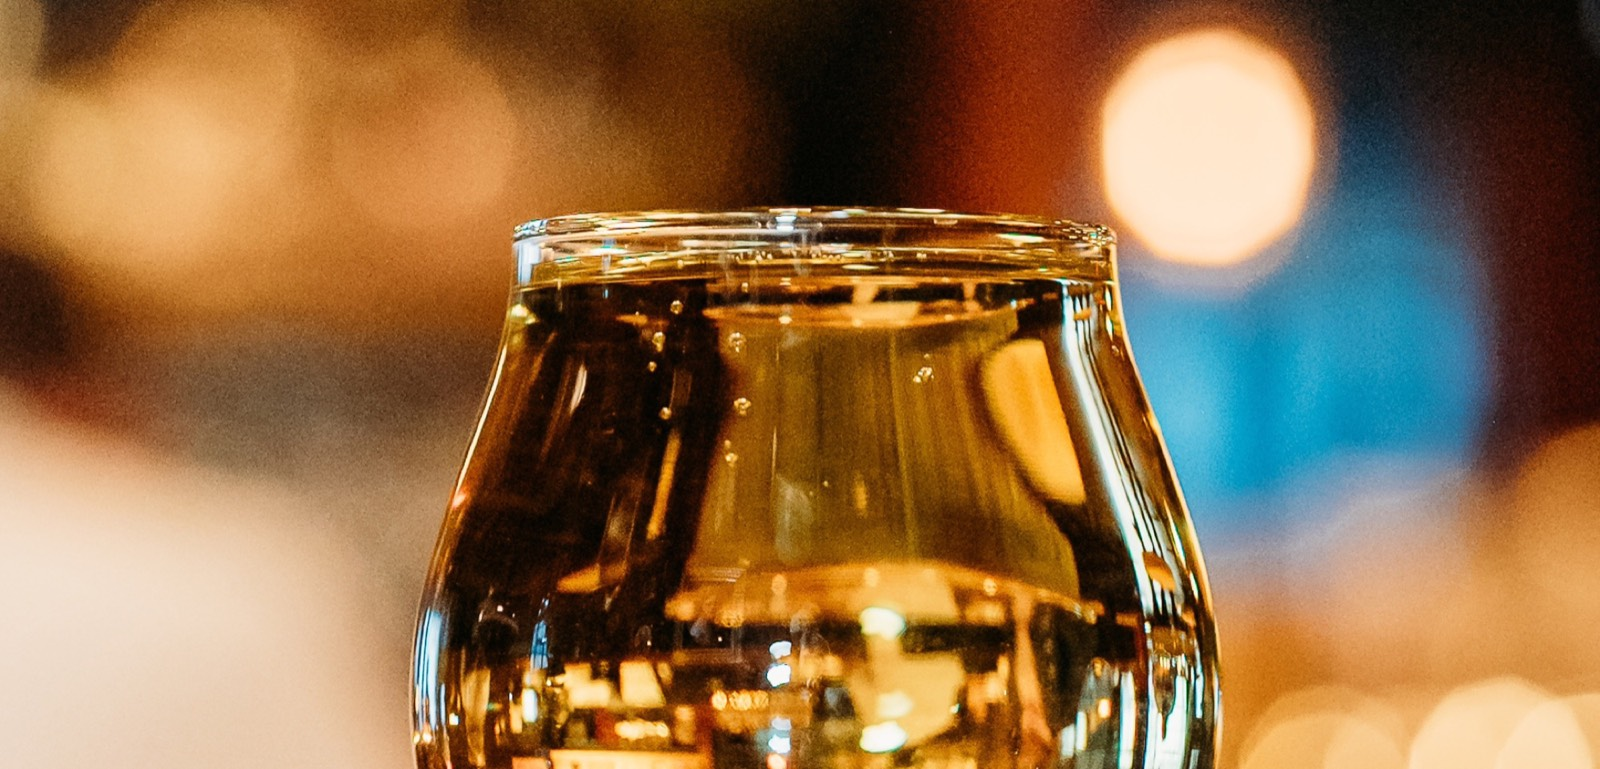
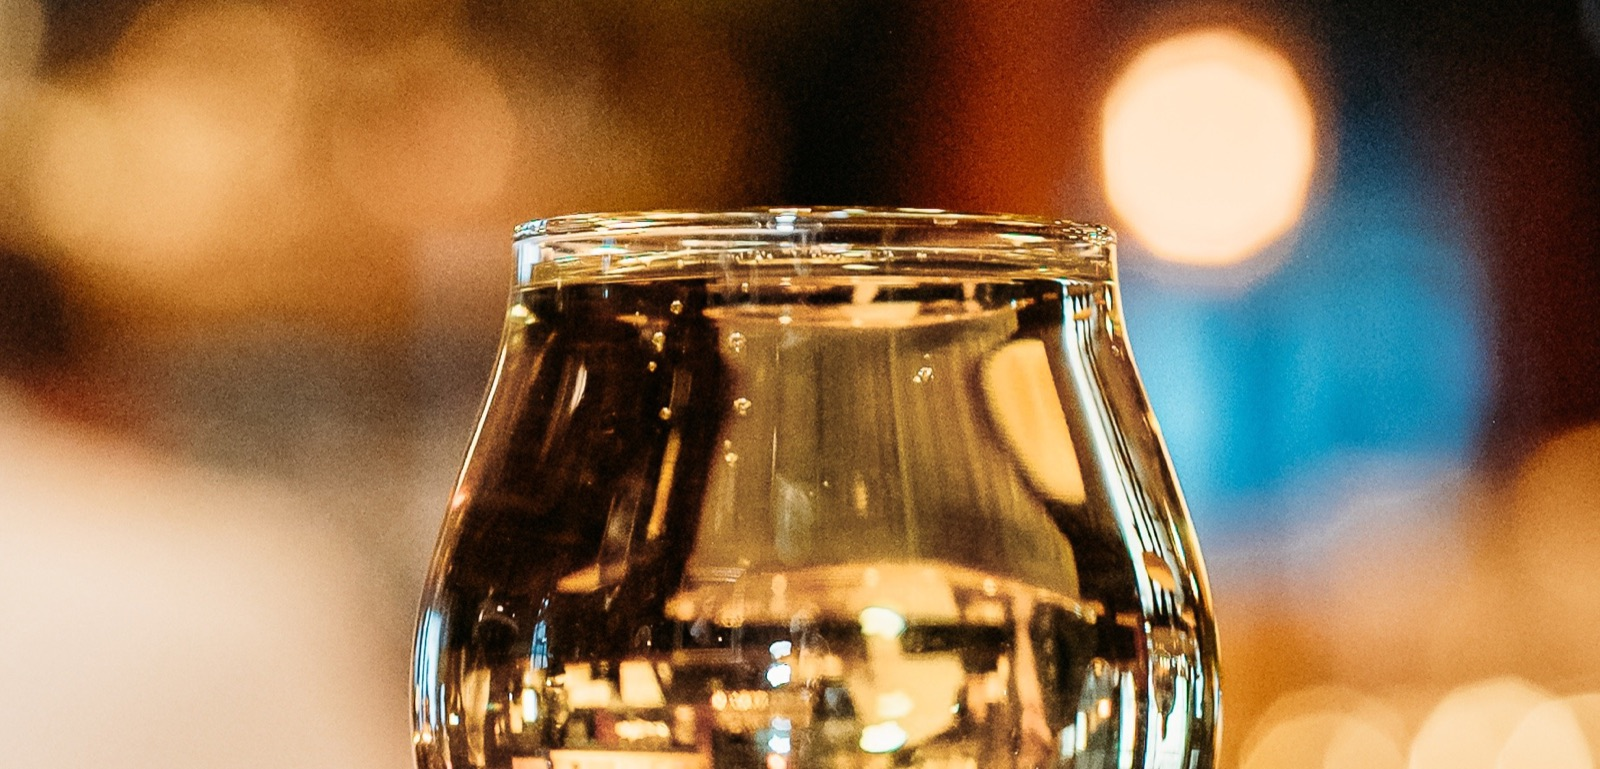
Remove Patsy's Volcanos; color-grade cider photos per cider

Changed region(s): [[0.25, 0.2809, 0.75, 1.0], [0.375, 0.4057, 0.4062, 0.4369]]

diff --git a/cider.html b/cider.html
@@ -72,12 +72,6 @@ a { color:#DC9C48; text-decoration:none; }
     </div>
     
     <div style="width:23.5%; background:#242220; border:1px solid rgba(244,238,223,0.14); padding:22px; border-radius:3px;">
-      <div class="imgbox" style="height:70px; margin-bottom:14px;"><img src="images/cider-patsys-volcanos.jpg" alt=""></div>
-      <div style="font-family:'Cormorant Garamond', Georgia, serif; font-weight:600; font-size:19px; color:#DC9C48; margin-bottom:8px;">Patsy's Volcanos</div>
-      <div style="font-size:11.5px; color:#BFB393; line-height:1.6;">On the precipice of eruption: fiery cinnamon meets the perfect hot &amp; sweet balance.</div>
-    </div>
-    
-    <div style="width:23.5%; background:#242220; border:1px solid rgba(244,238,223,0.14); padding:22px; border-radius:3px;">
       <div class="imgbox" style="height:70px; margin-bottom:14px;"><img src="images/cider-spiced-mike.jpg" alt=""></div>
       <div style="font-family:'Cormorant Garamond', Georgia, serif; font-weight:600; font-size:19px; color:#DC9C48; margin-bottom:8px;">Spiced Mike</div>
       <div style="font-size:11.5px; color:#BFB393; line-height:1.6;">Cinnamon, clove, cardamom, allspice. All the warm apple pie spices, rolled into one taste.</div>

diff --git a/home.html b/home.html
@@ -284,9 +284,9 @@ a { color:#DC9C48; text-decoration:none; }
     </div>
     
     <div style="width:23.5%;">
-      <div class="imgbox" style="height:90px; margin-bottom:10px;"><img src="images/cider-patsys-volcanos.jpg" alt=""></div>
-      <div style="font-family:'Cormorant Garamond', Georgia, serif; font-weight:600; font-size:19px; color:#DC9C48;">Patsy's Volcanos</div>
-      <div style="font-size:11.5px; color:#BFB393;">Fiery cinnamon</div>
+      <div class="imgbox" style="height:90px; margin-bottom:10px;"><img src="images/cider-spiced-mike.jpg" alt=""></div>
+      <div style="font-family:'Cormorant Garamond', Georgia, serif; font-weight:600; font-size:19px; color:#DC9C48;">Spiced Mike</div>
+      <div style="font-size:11.5px; color:#BFB393;">Warm apple pie spices</div>
     </div>
     
     <div style="width:23.5%;">

diff --git a/index.html b/index.html
@@ -284,9 +284,9 @@ a { color:#DC9C48; text-decoration:none; }
     </div>
     
     <div style="width:23.5%;">
-      <div class="imgbox" style="height:90px; margin-bottom:10px;"><img src="images/cider-patsys-volcanos.jpg" alt=""></div>
-      <div style="font-family:'Cormorant Garamond', Georgia, serif; font-weight:600; font-size:19px; color:#DC9C48;">Patsy's Volcanos</div>
-      <div style="font-size:11.5px; color:#BFB393;">Fiery cinnamon</div>
+      <div class="imgbox" style="height:90px; margin-bottom:10px;"><img src="images/cider-spiced-mike.jpg" alt=""></div>
+      <div style="font-family:'Cormorant Garamond', Georgia, serif; font-weight:600; font-size:19px; color:#DC9C48;">Spiced Mike</div>
+      <div style="font-size:11.5px; color:#BFB393;">Warm apple pie spices</div>
     </div>
     
     <div style="width:23.5%;">
